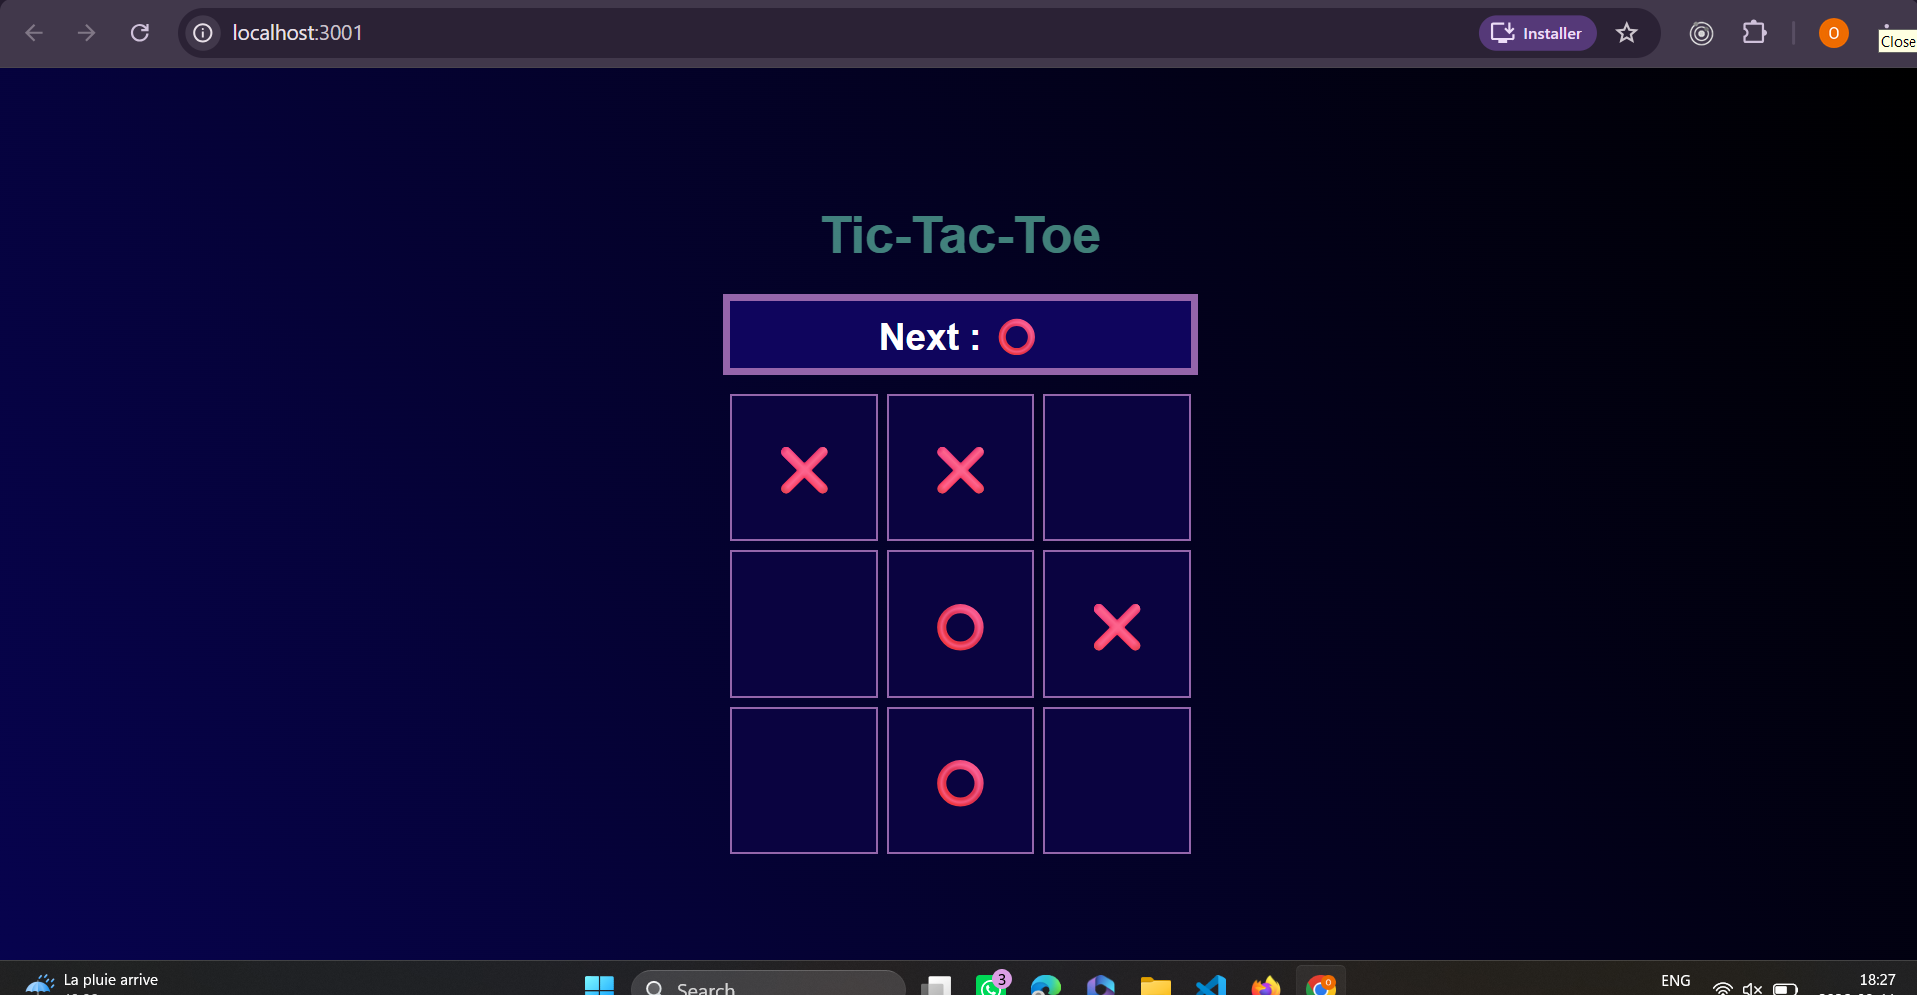
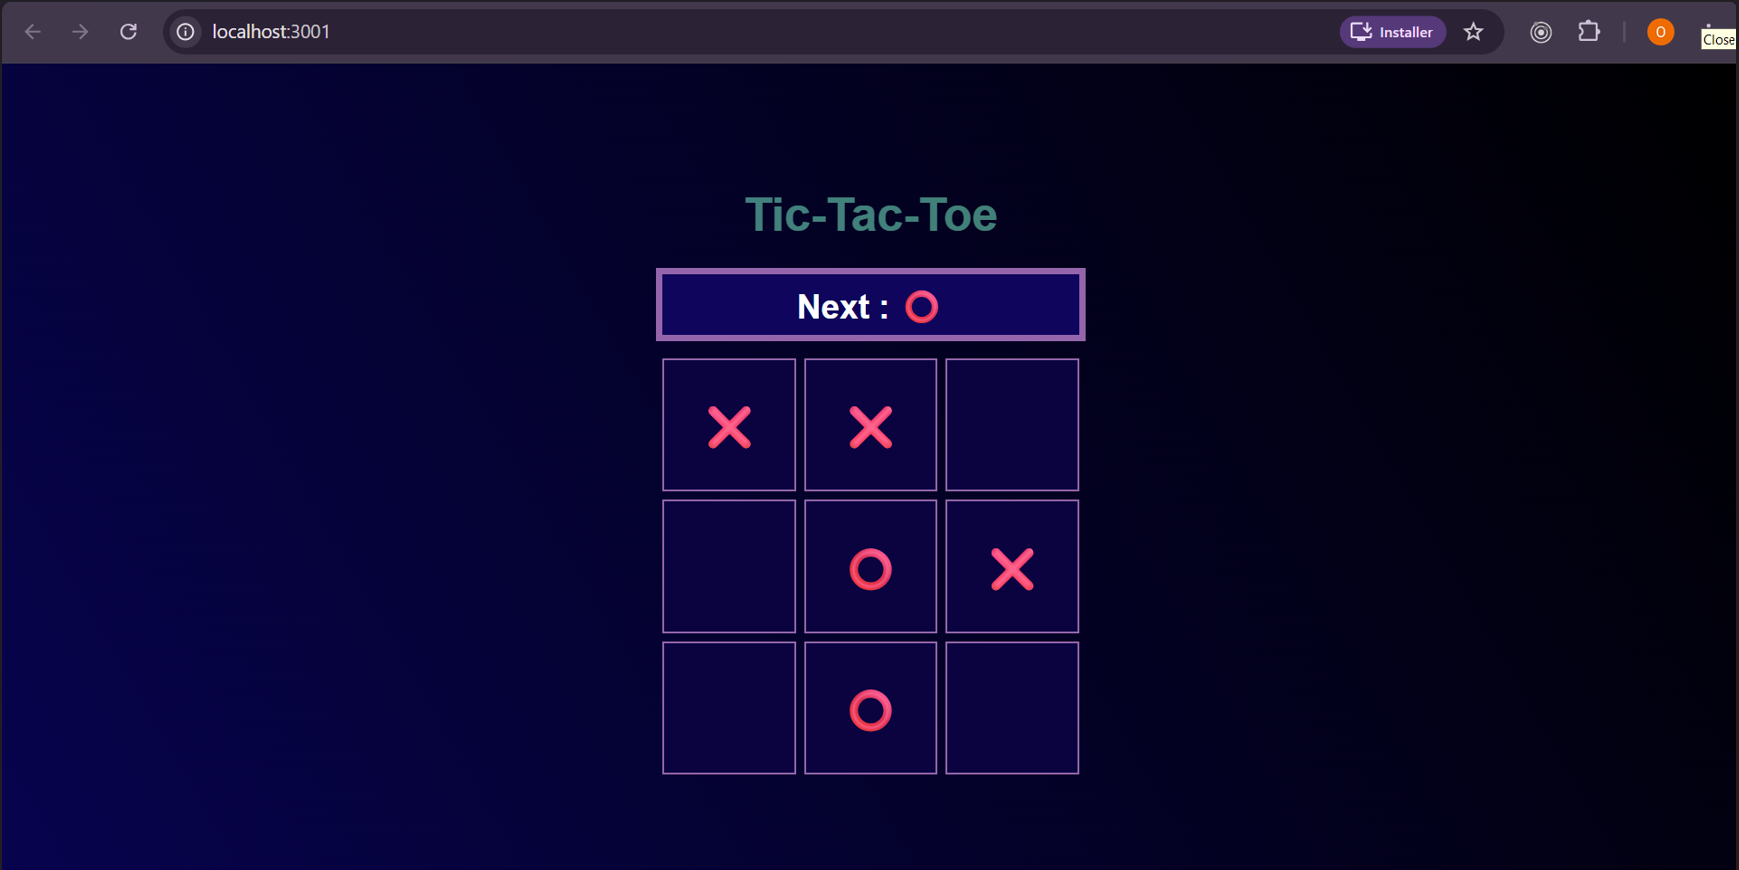
resize project image container

Changed region(s): [[0.0, 0.0, 1.0, 1.0], [0.3726, 0.2172, 0.621, 0.9], [0.0, 0.0, 0.0311, 0.031]]

diff --git a/src/pages/ProjectDetails.jsx b/src/pages/ProjectDetails.jsx
@@ -57,51 +57,51 @@ function ProjectDetails() {
         </div>
 
         {/* Image Gallery */}
-        <section className="relative z-0 mb-8 overflow-hidden rounded-xl border border-gray-800 bg-[#252526]">
+        <section className="relative z-0 mx-auto mb-6 w-full max-w-4xl overflow-hidden rounded-xl border border-gray-800 bg-[#252526]">
           <motion.div
             key={currentImage}
             initial={{ opacity: 0, x: 30 }}
             animate={{ opacity: 1, x: 0 }}
             transition={{ duration: 0.3 }}
-            className="relative z-0 w-full"
+            className="relative z-0 flex h-[250px] w-full items-center justify-center sm:h-[350px] md:h-[450px]"
           >
             <img
               src={images[currentImage]}
               alt={`${project.title} screenshot ${currentImage + 1}`}
-              className="block h-auto max-h-[600px] w-full object-contain"
+              className="block h-full w-full object-contain"
             />
+
+            {/* Previous */}
+            {images.length > 1 && (
+              <button
+                type="button"
+                onClick={previousImage}
+                aria-label="Previous image"
+                className="absolute left-3 top-1/2 z-20 flex h-9 w-9 -translate-y-1/2 items-center justify-center rounded-full bg-black/70 text-white shadow-lg backdrop-blur-sm transition-all hover:scale-110 hover:bg-black"
+              >
+                <FiChevronLeft size={22} />
+              </button>
+            )}
+
+            {/* Next */}
+            {images.length > 1 && (
+              <button
+                type="button"
+                onClick={nextImage}
+                aria-label="Next image"
+                className="absolute right-3 top-1/2 z-20 flex h-9 w-9 -translate-y-1/2 items-center justify-center rounded-full bg-black/70 text-white shadow-lg backdrop-blur-sm transition-all hover:scale-110 hover:bg-black"
+              >
+                <FiChevronRight size={22} />
+              </button>
+            )}
+
+            {/* Counter */}
+            {images.length > 1 && (
+              <div className="absolute bottom-3 left-1/2 z-20 -translate-x-1/2 rounded-full bg-black/70 px-3 py-1 text-xs text-gray-200 backdrop-blur-sm">
+                {currentImage + 1} / {images.length}
+              </div>
+            )}
           </motion.div>
-
-          {/* Previous */}
-          {images.length > 1 && (
-            <button
-              type="button"
-              onClick={previousImage}
-              aria-label="Previous image"
-              className="absolute left-3 top-1/2 z-20 flex h-10 w-10 -translate-y-1/2 items-center justify-center rounded-full bg-black/70 text-white shadow-lg backdrop-blur-sm transition-all hover:scale-110 hover:bg-black"
-            >
-              <FiChevronLeft size={24} />
-            </button>
-          )}
-
-          {/* Next */}
-          {images.length > 1 && (
-            <button
-              type="button"
-              onClick={nextImage}
-              aria-label="Next image"
-              className="absolute right-3 top-1/2 z-20 flex h-10 w-10 -translate-y-1/2 items-center justify-center rounded-full bg-black/70 text-white shadow-lg backdrop-blur-sm transition-all hover:scale-110 hover:bg-black"
-            >
-              <FiChevronRight size={24} />
-            </button>
-          )}
-
-          {/* Counter */}
-          {images.length > 1 && (
-            <div className="absolute bottom-3 left-1/2 z-20 -translate-x-1/2 rounded-full bg-black/70 px-3 py-1 text-xs text-gray-200 backdrop-blur-sm">
-              {currentImage + 1} / {images.length}
-            </div>
-          )}
         </section>
 
         {/* Project Information */}

diff --git a/src/data/projects.js b/src/data/projects.js
@@ -26,7 +26,7 @@ import todo2 from "../assets/ToDoList/todo2.png";
 import todo3 from "../assets/ToDoList/todo3.png";
 import todo4 from "../assets/ToDoList/todo4.png";
 import todo5 from "../assets/ToDoList/todo5.png";
-import todo6 from "../assets/ToDoList/todo6.png";
+import todo6 from "../assets/ToDoList/todo6.png"; 
 
 import tic1 from "../assets/TicTacToe/tic1.png";
 import tic2 from "../assets/TicTacToe/tic2.png";
